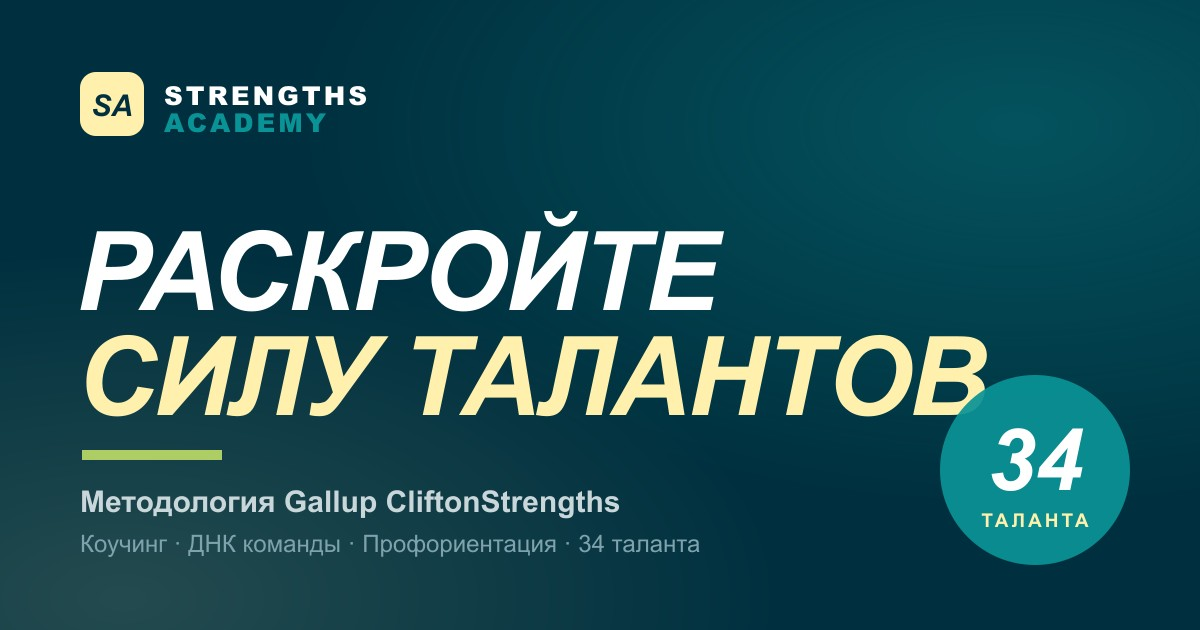
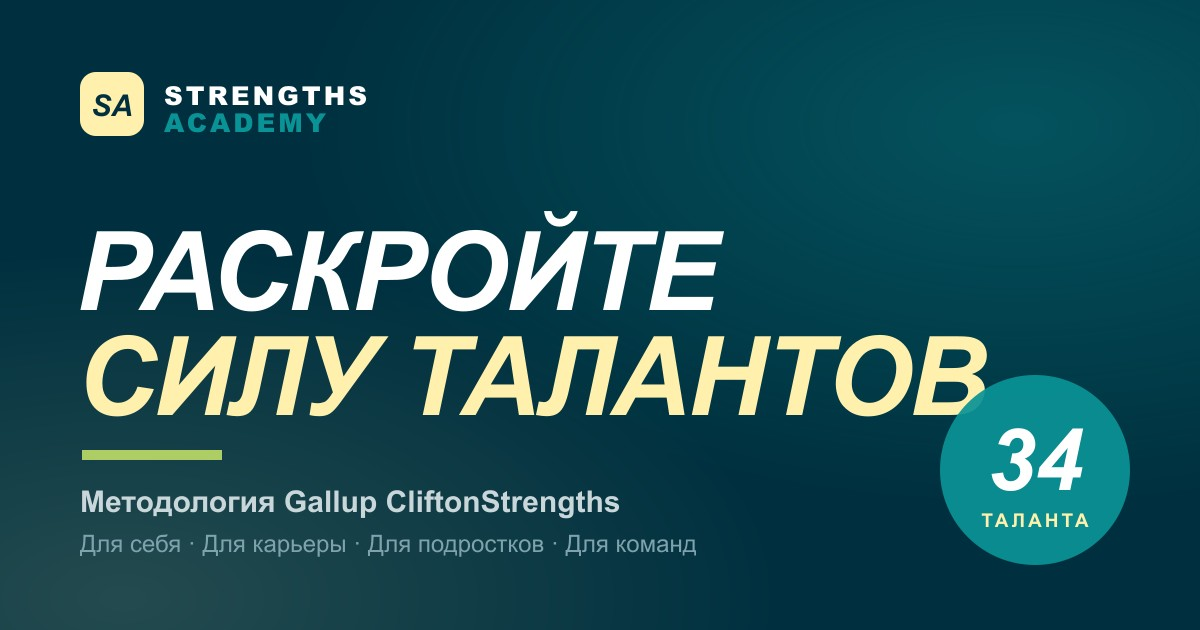
Превью сайта: баланс B2C+B2B, убрано слово «коучинг»
Title, description, OG и Twitter-теги были заточены только под команды и
бизнес («развитие команд», «рост бизнеса»). Теперь: сначала личное (тест,
34 таланта, карьера, профориентация), затем команды. Нижняя строка
OG-обложки: «Для себя · Для карьеры · Для подростков · Для команд».

Changed region(s): [[0.0617, 0.8444, 0.5858, 0.8746]]

diff --git a/index.html b/index.html
@@ -8,9 +8,9 @@
     <meta name="theme-color" content="#00303f" />
 
     <!-- SEO: primary meta -->
-    <title>Strengths Academy — Развитие сильных сторон команд по методологии Gallup CliftonStrengths</title>
-    <meta name="description" content="Strengths Academy — тренинги, коучинг, ДНК команды на основе Gallup CliftonStrengths. Раскрываем таланты сотрудников и лидеров для роста бизнеса. 2500+ протестировано, 15+ лет в HR." />
-    <meta name="keywords" content="Gallup, CliftonStrengths, сильные стороны, коучинг, тренинги для команд, HR консалтинг, развитие лидеров, ДНК команды, StrengthsFinder, тест Gallup" />
+    <title>Strengths Academy — Раскройте силу талантов | Тест Gallup CliftonStrengths</title>
+    <meta name="description" content="Узнайте свои 34 таланта по Gallup CliftonStrengths. Тест с разбором, карьерная стратегия, профориентация подростков 16+ и сильные команды для бизнеса. 2500+ протестировано, 15+ лет в HR." />
+    <meta name="keywords" content="Gallup, CliftonStrengths, сильные стороны, тест Gallup, 34 таланта, карьерная консультация, профориентация подростков, тренинги для команд, развитие лидеров, ДНК команды, StrengthsFinder" />
     <meta name="author" content="Strengths Academy" />
     <meta name="robots" content="index, follow" />
     <link rel="canonical" href="https://strengthsacademy.ru/" />
@@ -19,7 +19,7 @@
     <meta property="og:type" content="website" />
     <meta property="og:url" content="https://strengthsacademy.ru/" />
     <meta property="og:title" content="Strengths Academy — Раскройте силу талантов" />
-    <meta property="og:description" content="Тренинги, коучинг и ДНК команды на основе Gallup CliftonStrengths. Растите бизнес через таланты команды." />
+    <meta property="og:description" content="Узнайте свои 34 таланта по Gallup CliftonStrengths. Тест с разбором, карьерная стратегия, профориентация 16+ и сильные команды. Для себя и для бизнеса." />
     <meta property="og:image" content="https://strengthsacademy.ru/og-cover.jpg" />
     <meta property="og:locale" content="ru_RU" />
     <meta property="og:site_name" content="Strengths Academy" />
@@ -27,7 +27,7 @@
     <!-- Twitter Card -->
     <meta name="twitter:card" content="summary_large_image" />
     <meta name="twitter:title" content="Strengths Academy — Раскройте силу талантов" />
-    <meta name="twitter:description" content="Развитие команд по методологии Gallup CliftonStrengths." />
+    <meta name="twitter:description" content="Узнайте свои 34 таланта по Gallup CliftonStrengths. Для себя и для бизнеса." />
     <meta name="twitter:image" content="https://strengthsacademy.ru/og-cover.jpg" />
 
     <!-- JSON-LD: Organization + LocalBusiness -->
